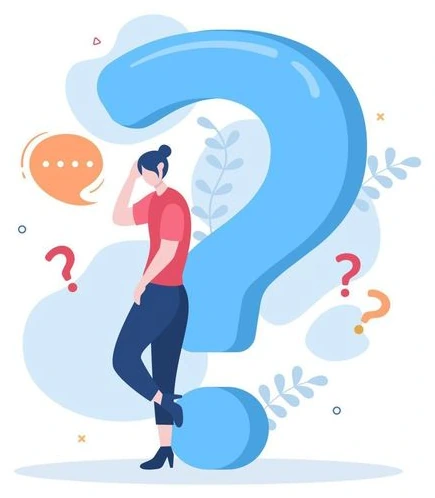
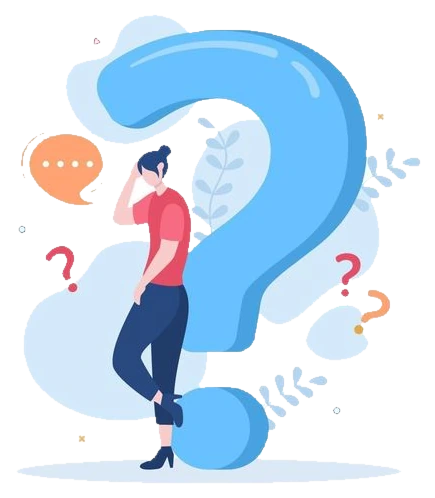
Homepage FAQ: illustration straight on the black, no card
Cut out of its white page instead of sitting on a light card: only the
white connected to the edge is removed (flood fill), so the art keeps
its exact colours and inner white shine; the cut edge is trimmed and
softened so no light halo shows. Transparent WebP (29KB), a touch
smaller on screen so it stays sharp and ends level with the questions.

diff --git a/components/home/faqV2.js b/components/home/faqV2.js
@@ -6,9 +6,9 @@ import RichText from "@/components/ui/richText";
 // Native <details>: keyboard and screen-reader friendly with no script, and
 // every answer stays in the page. The homepage FAQ structured data is built
 // from the same dashboard items (PageSeoScripts), unchanged.
-// From md up the left column holds an illustration on a soft light card
-// (the picture's own white melts into the card via mix-blend-multiply, so
-// there's no white box) and stays beside the questions as they scroll.
+// From md up the left column holds an illustration, cut out of its white
+// page (transparent WebP, original colours), and stays beside the questions
+// as they scroll.
 // Lazy-loaded with a fixed size (no layout shift); not shown or downloaded
 // on phones.
 export default function FaqV2({ content }) {
@@ -22,18 +22,16 @@ export default function FaqV2({ content }) {
         <div className="md:sticky md:top-28 md:self-start">
           <p className="text-sm text-[#40A2D8]">Questions</p>
           <h2 className="font-display mt-4 text-4xl leading-[1.08] md:text-5xl">{heading}</h2>
-          <div className="mt-10 hidden max-w-[24rem] rounded-3xl bg-[#eaf3fd] p-6 md:block">
-            {/* eslint-disable-next-line @next/next/no-img-element -- already cropped and compressed (19KB); next/image would recompress the JPEG-sourced art a second time */}
-            <img
-              src="/faq-thinking.webp"
-              alt=""
-              width={435}
-              height={498}
-              loading="lazy"
-              decoding="async"
-              className="h-auto w-full mix-blend-multiply"
-            />
-          </div>
+          {/* eslint-disable-next-line @next/next/no-img-element -- already cropped and compressed (29KB); next/image would recompress the JPEG-sourced art a second time */}
+          <img
+            src="/faq-thinking.webp"
+            alt=""
+            width={435}
+            height={498}
+            loading="lazy"
+            decoding="async"
+            className="mt-10 hidden h-auto w-full max-w-[21rem] md:block"
+          />
         </div>
         <div className="border-t border-white/10">
           {items.map((f, i) => (
